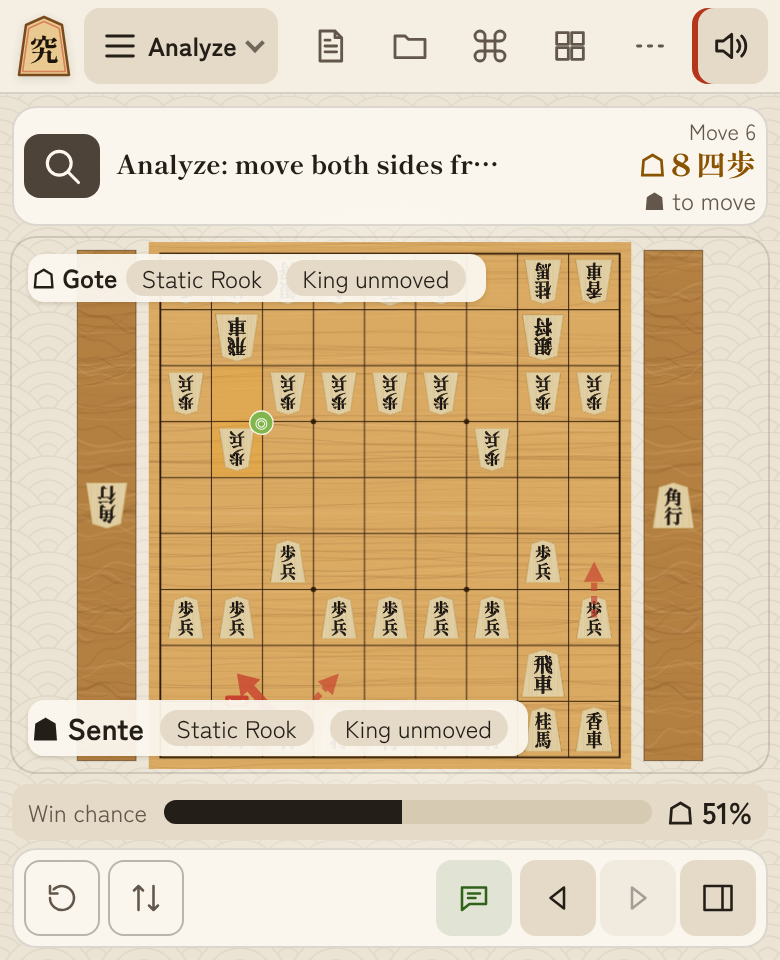
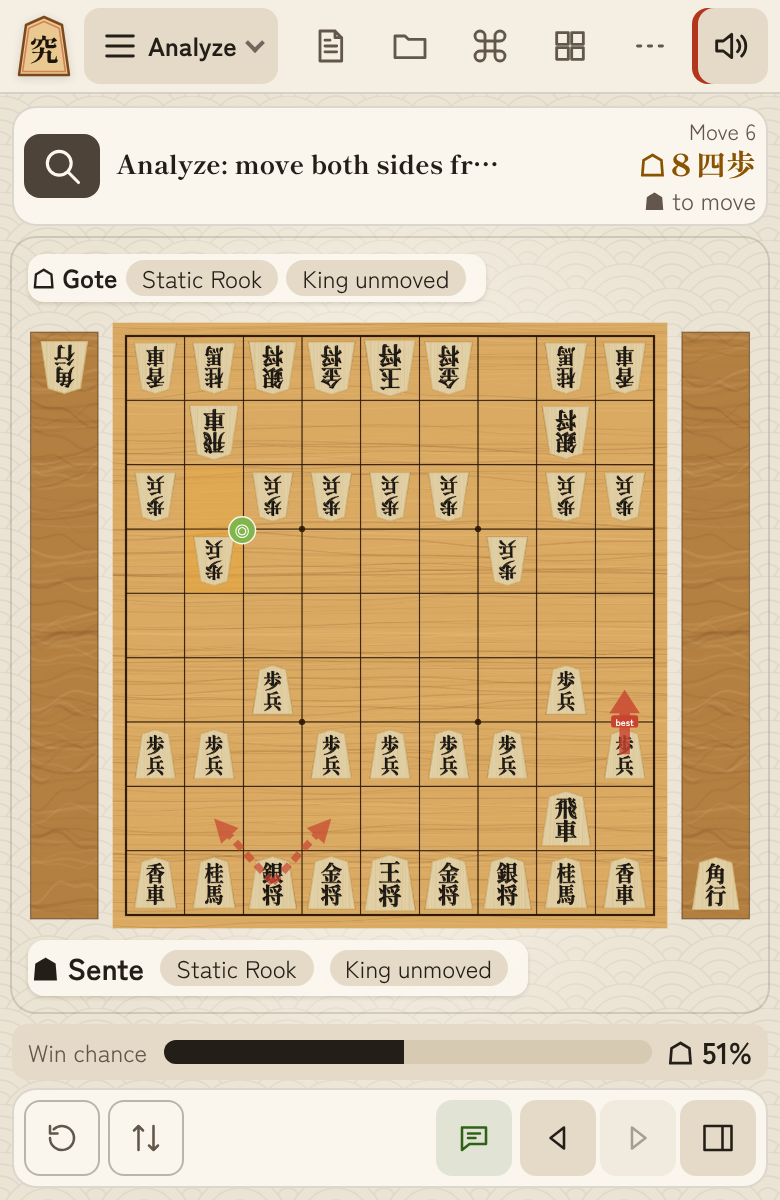
fix: end-align captured pieces in vertical strips

diff --git a/src/rendering/board3d/hand.ts b/src/rendering/board3d/hand.ts
@@ -205,7 +205,7 @@ export function handArrangement(position: ImmutablePosition, color: Color): { sp
   const sign = color === Color.BLACK ? 1 : -1
   if (layout.portrait) {
     const types = [...BIG, PieceType.PAWN].filter((t) => hand.count(t) > 0)
-    const along = (i: number) => (layout.vertical ? sign * ((types.length - 1) / 2 - i) * 1.02 : sign * (STRIP_W / 2 - 0.6 - i * 1.02))
+    const along = (i: number) => sign * (STRIP_W / 2 - 0.6 - i * 1.02)
     return {
       mode: 'strip',
       spots: types.map((type, i) => ({
